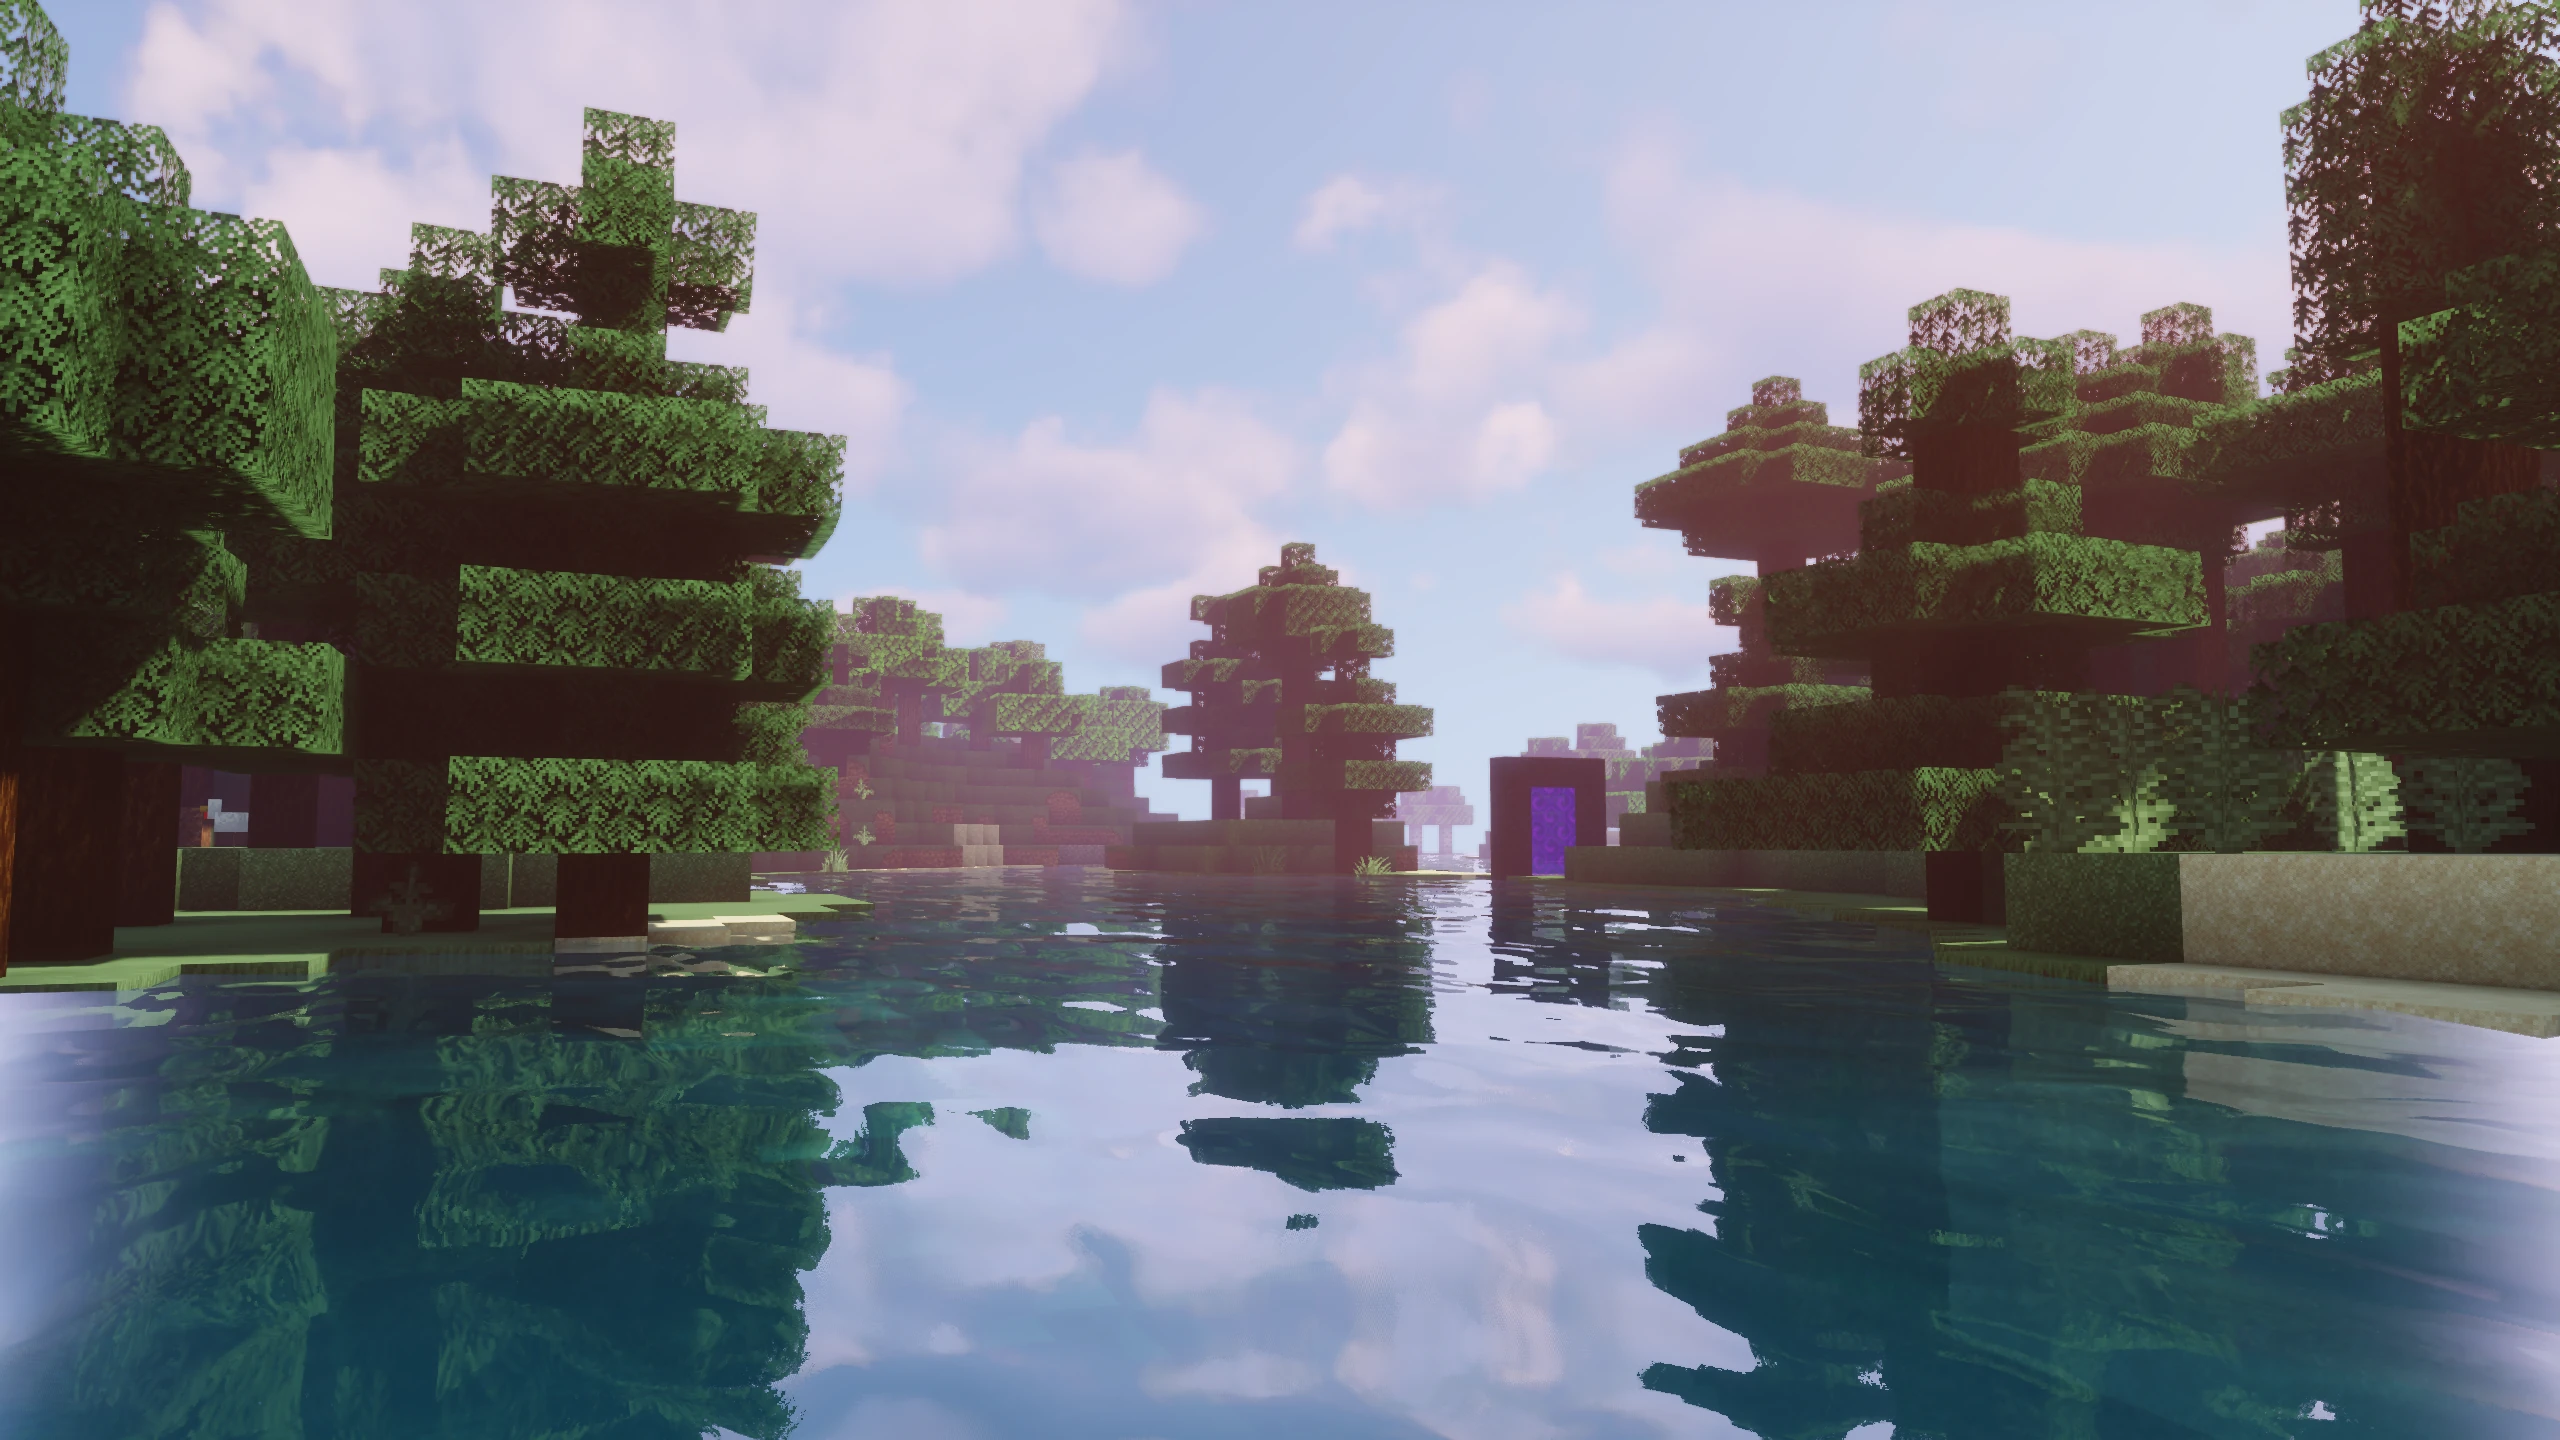
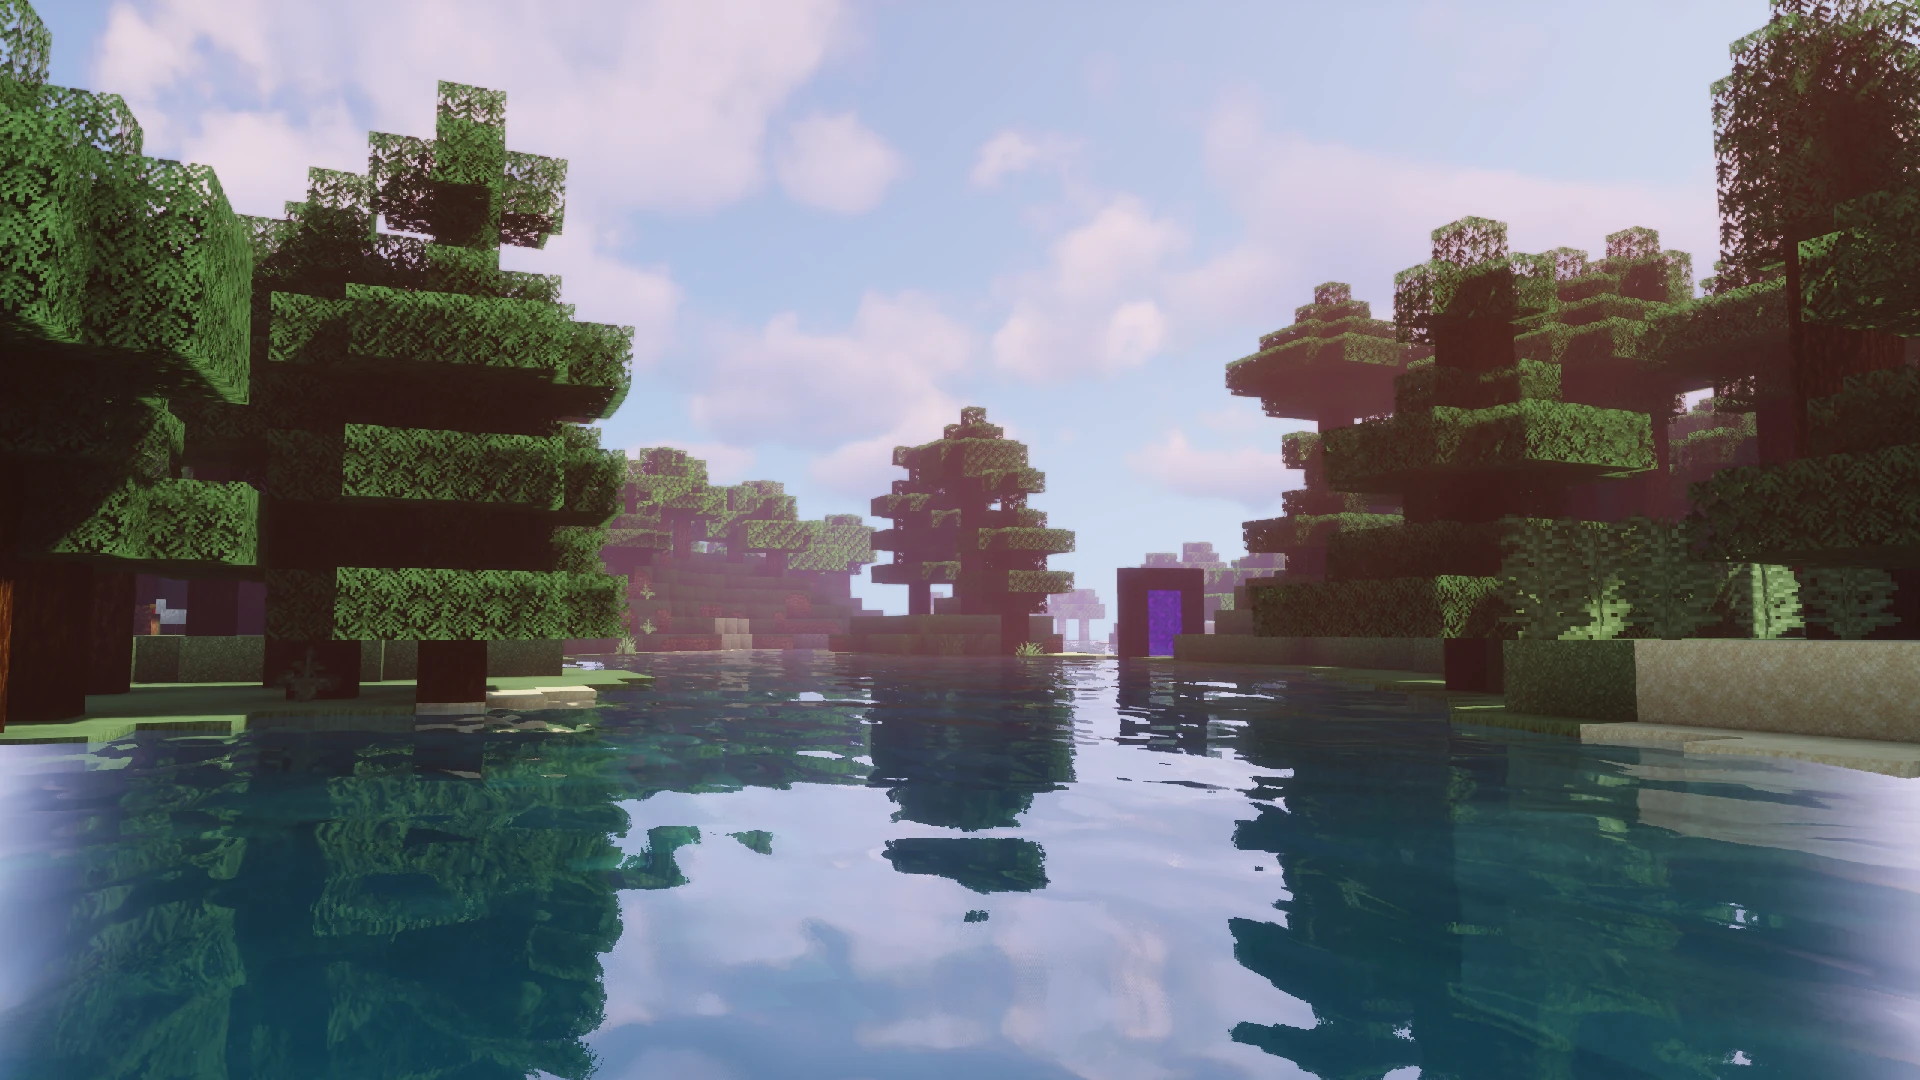
Remove oil pictures

Changed region(s): [[0.1562, 0.1528, 0.2188, 0.2444], [0.9375, 0.0, 1.0, 0.0306], [0.75, 0.2139, 0.7812, 0.2444]]

diff --git a/content/assets/css/main.css b/content/assets/css/main.css
@@ -246,7 +246,7 @@ main {
   justify-content: center;
   flex-wrap: wrap;
   align-items: center;
-  background-image: url(/assets/images/404-title-oil.webp);
+  background-image: url(/assets/images/404-title.webp);
   background-position: center 0px;
   background-size: cover;
   background-attachment: scroll;

diff --git a/content/mobs/index.php b/content/mobs/index.php
@@ -9,7 +9,7 @@
   <body>
     <?php echo file_get_contents($_SERVER['DOCUMENT_ROOT'] .'/assets/templates/header.html'); ?>
     <main>
-      <div class="sub-title" style="background-image: url(/assets/images/mobs-title-oil.webp); background-position: center;">
+      <div class="sub-title" style="background-image: url(/assets/images/mobs-title.webp); background-position: center;">
         <div>
           <h1>Custom Mobs</h1>
           <h2>Powered by Mythic Mobs</h2>
@@ -21,13 +21,13 @@
             <h3>Vampire Bat</h3>
             <p>The Vampire Bat may look like a normal bat at first, but its bite will quickly change your mind. Once the Vampire Bat attacks, it also begins calling other Vampire Bats in the area to join.</p>
             <p>The Vampire Bat spawns anywhere a normal bat would.</p>
-            <img class="medium" src="/assets/images/mobs-vampire-bat-oil.webp" alt="Minecraft bat"></img>
+            <img class="medium" src="/assets/images/mobs-bat.webp" alt="Minecraft bat"></img>
           </section>
           <section>
             <h3>Mob Leader</h3>
             <p>An Illusioner with quite the following, this Illusioner will spawn in a cadre of zombies and skeletons, with more spawning the more you ignore it.</p>
             <p>The Mob Leader can be randomly encountered through the world.</p>
-            <img class="medium" src="/assets/images/mobs-mob-leader-oil.webp" alt="Minecraft Illusioner, zombie, and skeleton"></img>
+            <img class="medium" src="/assets/images/mobs-mob-leader.webp" alt="Minecraft Illusioner, zombie, and skeleton"></img>
           </section>
         </div>
         <div>
@@ -35,13 +35,13 @@
             <h3>Skeleton King</h3>
             <p>Leader of the Skeleton World, the Skeleton King summons minions to defend himself if encountered. He also has high HP and decent strength himself, if you can get close enough.</p>
             <p>The Skeleton King can be randomly encountered through the world.</p>
-            <img class="medium" src="/assets/images/mobs-skeleton-king-oil.webp" alt="Minecraft Wither Skeleton and two skeletons"></img>
+            <img class="medium" src="/assets/images/mobs-skeleton-king.webp" alt="Minecraft Wither Skeleton and two skeletons"></img>
           </section>
           <section>
             <h3>Skeletal Knight</h3>
             <p>The Skeletal Knight is strong, but slow. Unlike the Skeleton King, he fights alone, and with no ranged attacks. It's a battle of endurance for the Skeletal Knight.</p>
             <p>The Skeletal Knight can be randomly encountered through the world.</p>
-            <img class="medium" src="/assets/images/mobs-skeletal-knight-oil.webp" alt="Minecraft Wither Skeleton"></img>
+            <img class="medium" src="/assets/images/mobs-wither-skeleton.webp" alt="Minecraft Wither Skeleton"></img>
           </section>
         </div>
       </div>

diff --git a/content/index.php b/content/index.php
@@ -71,12 +71,12 @@
             <p>Zombies can break through wooden doors and spawn reinforcements. Spiders have beneficial status effects. Villagers turn into zombie villagers when killed. Hostile mobs deal more damage. Starvation kills.</p>
           </div>
           <div>
-            <img class="small" src="/assets/images/landing-zombie-oil.webp" alt="Minecraft Zombie" />
+            <img class="small" src="/assets/images/landing-zombie.webp" alt="Minecraft Zombie" />
           </div>
         </section>
         <section class="center">
           <div>
-            <img class="small" src="/assets/images/landing-pickaxe-oil.webp" alt="Minecraft Enchanted Pickaxe" />
+            <img class="small" src="/assets/images/landing-pickaxe.webp" alt="Minecraft Enchanted Pickaxe" />
           </div>
           <div>
             <h3>+ RPG Elements</h3>
@@ -89,7 +89,7 @@
             <p>Hunt down other players and you'll become a bounty. Hunt down Bounties and you'll become a hero. Team up with others to build your base and strengthen your defenses, or go rogue and fight anyone who dares approach.</p>
           </div>
           <div>
-            <img class="small" src="/assets/images/landing-pvp-oil.webp" alt="Minecraft Swords" />
+            <img class="small" src="/assets/images/landing-pvp.webp" alt="Minecraft Swords" />
           </div>
         </section>
         <section class="center" style="flex-direction: column; max-width: 600px;">

diff --git a/content/enchants/all/index.php b/content/enchants/all/index.php
@@ -64,7 +64,7 @@
   <body>
     <?php echo file_get_contents($_SERVER['DOCUMENT_ROOT'] .'/assets/templates/header.html'); ?>
     <main>
-      <div class="sub-title" style="background-image: url(/assets/images/enchants-all-title-oil.webp); background-position: center;">
+      <div class="sub-title" style="background-image: url(/assets/images/enchants-all-title.webp); background-position: center;">
         <div>
           <h1>Custom Enchants > All</h1>
           <h2>Powered by Advanced Enchantments</h2>

diff --git a/content/features/recipes/index.php b/content/features/recipes/index.php
@@ -14,7 +14,7 @@
   <body>
     <?php echo file_get_contents($_SERVER['DOCUMENT_ROOT'] .'/assets/templates/header.html'); ?>
     <main>
-      <div class="sub-title" style="background-image: url(/assets/images/features-recipes-title-oil.webp); background-position: center;">
+      <div class="sub-title" style="background-image: url(/assets/images/features-recipes-title.webp); background-position: center;">
         <div>
           <h1>Vanilla+ > Recipes</h1>
           <h2>Custom Features on SVMC</h2>

diff --git a/content/enchants/index.php b/content/enchants/index.php
@@ -9,7 +9,7 @@
   <body>
     <?php echo file_get_contents($_SERVER['DOCUMENT_ROOT'] .'/assets/templates/header.html'); ?>
     <main>
-      <div class="sub-title" style="background-image: url(/assets/images/enchants-title-oil.webp); background-position: center;">
+      <div class="sub-title" style="background-image: url(/assets/images/enchants-title.webp); background-position: center;">
         <div>
           <h1>Custom Enchants</h1>
           <h2>Powered by Advanced Enchantments</h2>

diff --git a/content/skills/index.php b/content/skills/index.php
@@ -9,7 +9,7 @@
   <body>
     <?php echo file_get_contents($_SERVER['DOCUMENT_ROOT'] .'/assets/templates/header.html'); ?>
     <main>
-      <div class="sub-title" style="background-image: url(/assets/images/skills-title-oil.webp); background-position: center;">
+      <div class="sub-title" style="background-image: url(/assets/images/skills-title.webp); background-position: center;">
         <div>
           <h1>Skills & Abilities</h1>
           <h2>Powered by Aurelium Skills</h2>

diff --git a/content/vote/index.php b/content/vote/index.php
@@ -15,7 +15,7 @@
   <body>
     <?php echo file_get_contents($_SERVER['DOCUMENT_ROOT'] .'/assets/templates/header.html'); ?>
     <main>
-      <div class="sub-title" style="background-image: url(/assets/images/vote-title-oil.webp); background-position: center;">
+      <div class="sub-title" style="background-image: url(/assets/images/vote-title.webp); background-position: center;">
         <div>
           <h1>Vote for Us</h1>
           <h2>Earn rewards in-game every day!</h2>

diff --git a/content/features/index.php b/content/features/index.php
@@ -9,7 +9,7 @@
   <body>
     <?php echo file_get_contents($_SERVER['DOCUMENT_ROOT'] .'/assets/templates/header.html'); ?>
     <main>
-      <div class="sub-title" style="background-image: url(/assets/images/features-title-oil.webp); background-position: center;">
+      <div class="sub-title" style="background-image: url(/assets/images/features-title.webp); background-position: center;">
         <div>
           <h1>Vanilla+</h1>
           <h2>Custom Features on SVMC</h2>

diff --git a/content/claiming/index.php b/content/claiming/index.php
@@ -9,7 +9,7 @@
   <body>
     <?php echo file_get_contents($_SERVER['DOCUMENT_ROOT'] .'/assets/templates/header.html'); ?>
     <main>
-      <div class="sub-title" style="background-image: url(/assets/images/claiming-title-oil.webp); background-position: center;">
+      <div class="sub-title" style="background-image: url(/assets/images/claiming-title.webp); background-position: center;">
         <div>
           <h1>Land Claiming</h1>
           <h2>Powered by Lands</h2>
